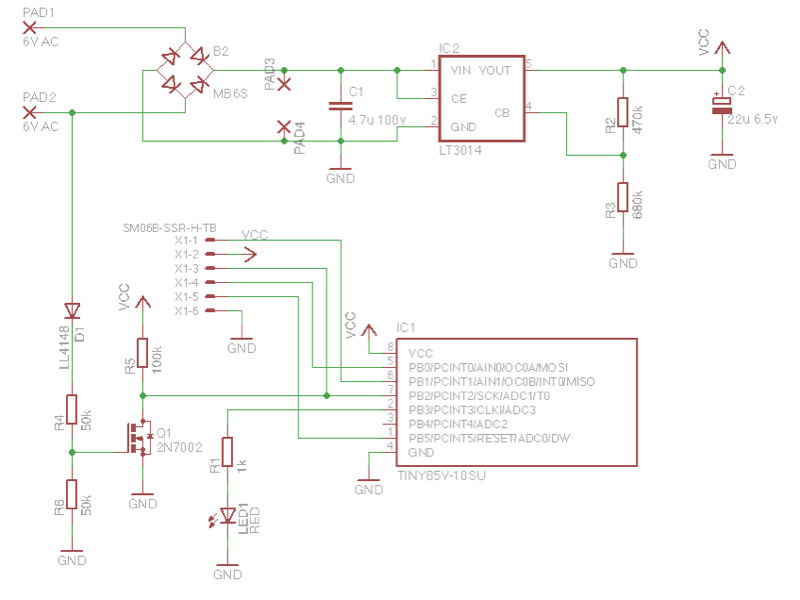
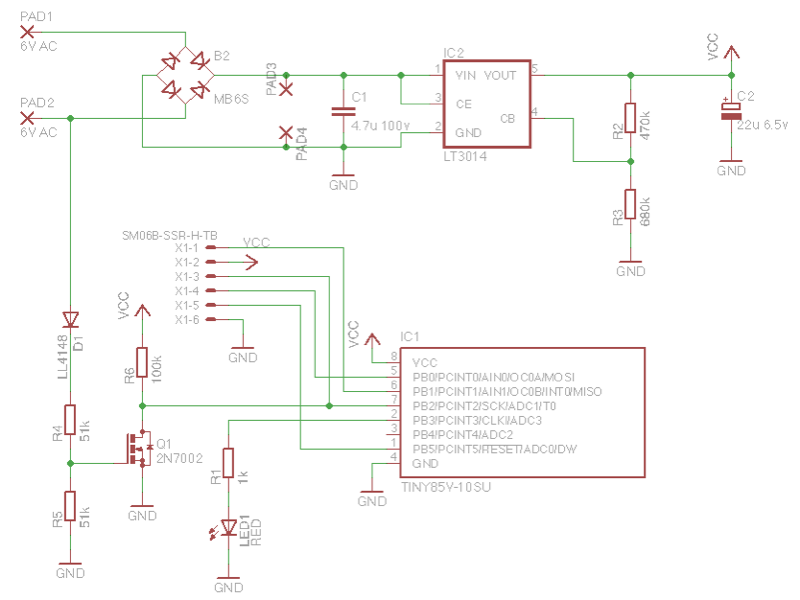
adjusted resistors

diff --git a/docs/Hardware.md b/docs/Hardware.md
@@ -33,9 +33,9 @@ There are two additional pads on the input side of the voltage regulator. These 
 |R1      | 1k                | 0805           |
 |R2      | 470k              | 0805           |
 |R3      | 680k              | 0805           |
-|R4      | 50k               | 0805           |
-|R5      | 100k              | 0805           |
-|R6      | 50k               | 0805           |
+|R4      | 51k               | 0805           |
+|R5      | 51k               | 0805           |
+|R6      | 100k              | 0805           |
 |X1      | SM06B-SSR-H-TB    | SM06B-SSR-H-TB |
 
 ## ISP Pinout
